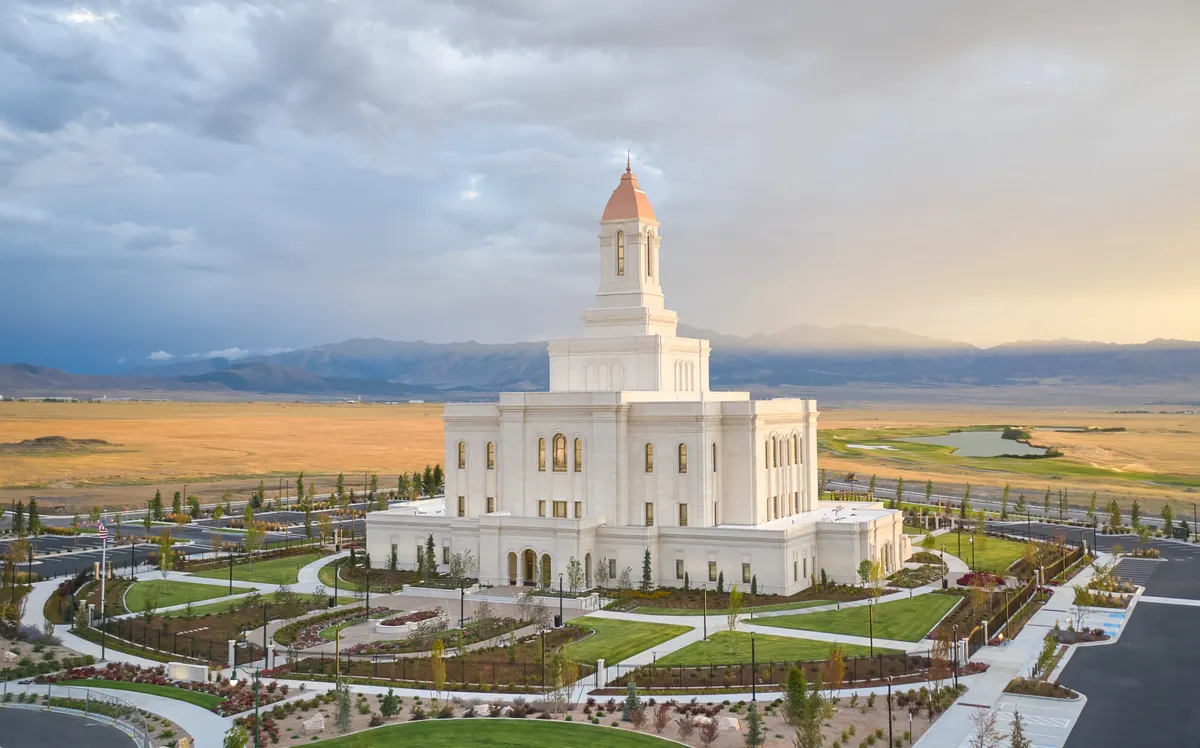
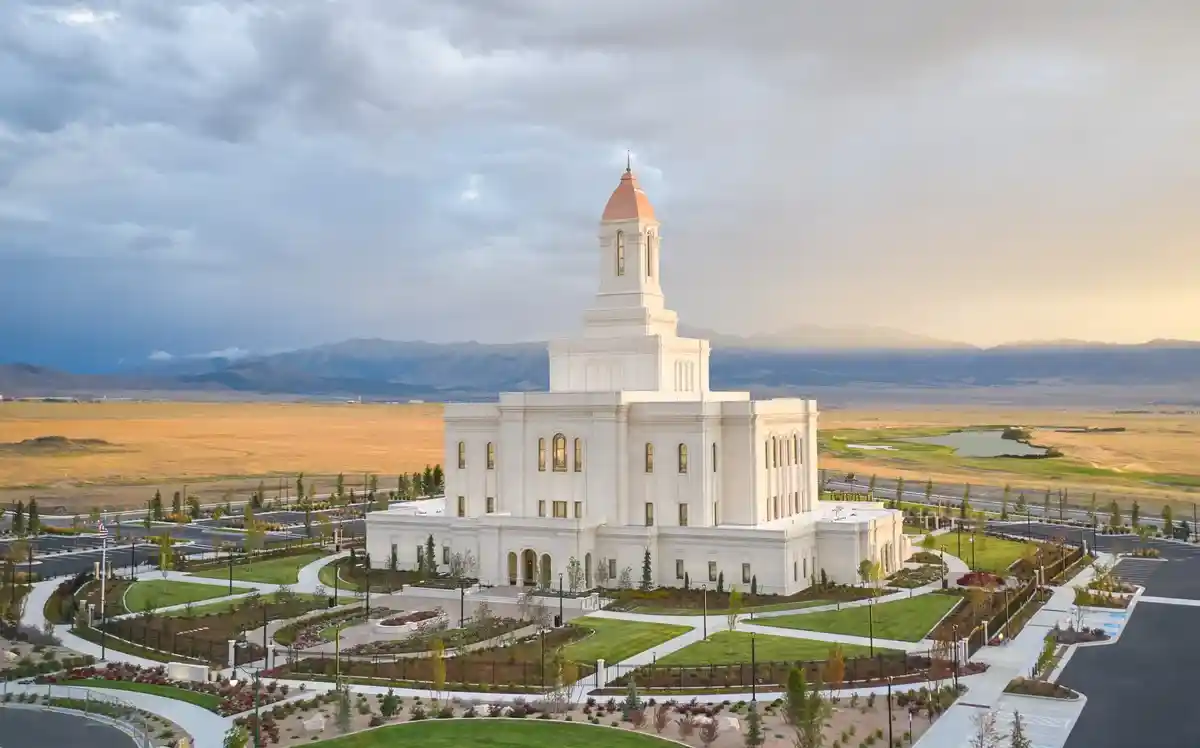
W2A_v2

Changed region(s): [[0.7708, 0.6765, 0.8017, 0.7072], [0.2775, 0.6765, 0.3083, 0.7072]]

diff --git a/temples.html b/temples.html
@@ -28,7 +28,7 @@
         <p class="title">
             Temple Album
         </p>
-        <button type="button" id="menu"></button>
+        <button type="button" id="menu" aria-label="Menu"></button>
         <nav>
             <ul class="navigation">
                 <li><a href="#" title="Home ">Home </a></li>